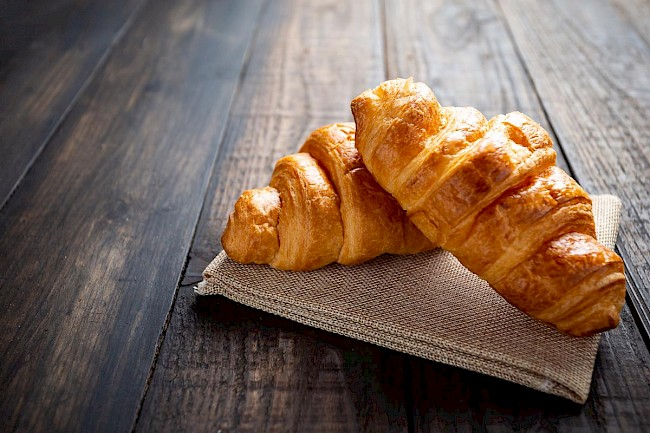
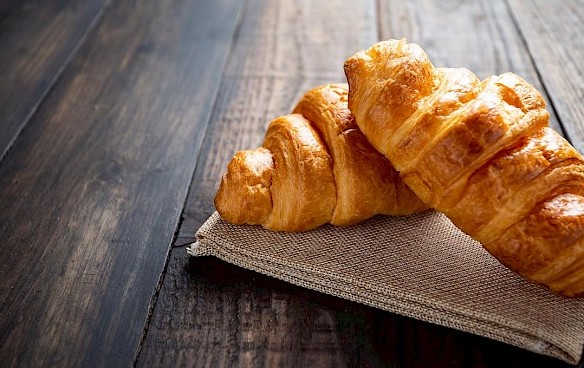
Homepage tweak, changed and replaced photos, added font (#25)

diff --git a/src/Components/Home.jsx b/src/Components/Home.jsx
@@ -16,10 +16,10 @@ const Home = (props) => {
   }
   const imageLinkStyle = {
     maxWidth: "100%",
-    width:"340px",
+    width:"360px",
+    height:"auto",
     borderRadius: "15px",
     padding: "5px",
-    margin: "10px",
     transition: "0.4s",
     gridColumn: "1 /span 3"
   };
@@ -30,7 +30,8 @@ const Home = (props) => {
     fontSize: "x-large",
     fontWeight: "bold",
     position: "absolute",
-    padding: "25px"
+    padding: "25px",
+    fontFamily: "Roboto",
   }
 
   //useState and props products/setProducts
@@ -40,10 +41,10 @@ const Home = (props) => {
       style={menuContainerStyle}
     >
       <Link to={"/HotDrinks/"} id="hot-drink-container">
-        <p
+        <p className="titlestyle"
           id="hot-drinks-title"
           style={titleStyle}
-          >Varme Drikker</p>
+          >Varme drikker</p>
         <img className="hot-drinks-image"
           style={imageLinkStyle}
           src={varmeDrikkerImage}
@@ -51,10 +52,10 @@ const Home = (props) => {
         />
       </Link>
       <Link to={"/ColdDrinks/"} id="cold-drink-container">
-        <p
+        <p className="titlestyle"
           id="cold-drinks-title"
           style={titleStyle}
-        >Kalde Drikker</p>
+        >Kalde drikker</p>
         <img className="cold-drinks-image"
           style={imageLinkStyle}
           src={kaldeDrikkerImage}
@@ -62,7 +63,7 @@ const Home = (props) => {
         />
       </Link>
       <Link to={"/Desserts/"} id="dessert-container">
-        <p 
+        <p className="titlestyle"
           id="desserts-title"
           style={titleStyle}
         >Desserter</p>

diff --git a/src/styles2.css b/src/styles2.css
@@ -9,6 +9,14 @@ body{
     -webkit-text-size-adjust: 100%;
 }
 
+@font-face{
+    font-family: 'Roboto';
+    src: local('Roboto'),url(./fonts/Roboto-Thin.ttf) format('truetype');
+}
+
+div{
+    font-family: Roboto;
+}
 
 /* MAIN CONTAINER */
 #root {

diff --git a/src/index.js b/src/index.js
@@ -1,6 +1,7 @@
 import React from "react";
 import ReactDOM from "react-dom";
 import App from "./app";
+import './fonts/Roboto-Thin.ttf'
 
 ReactDOM.render(
   <React.StrictMode>
